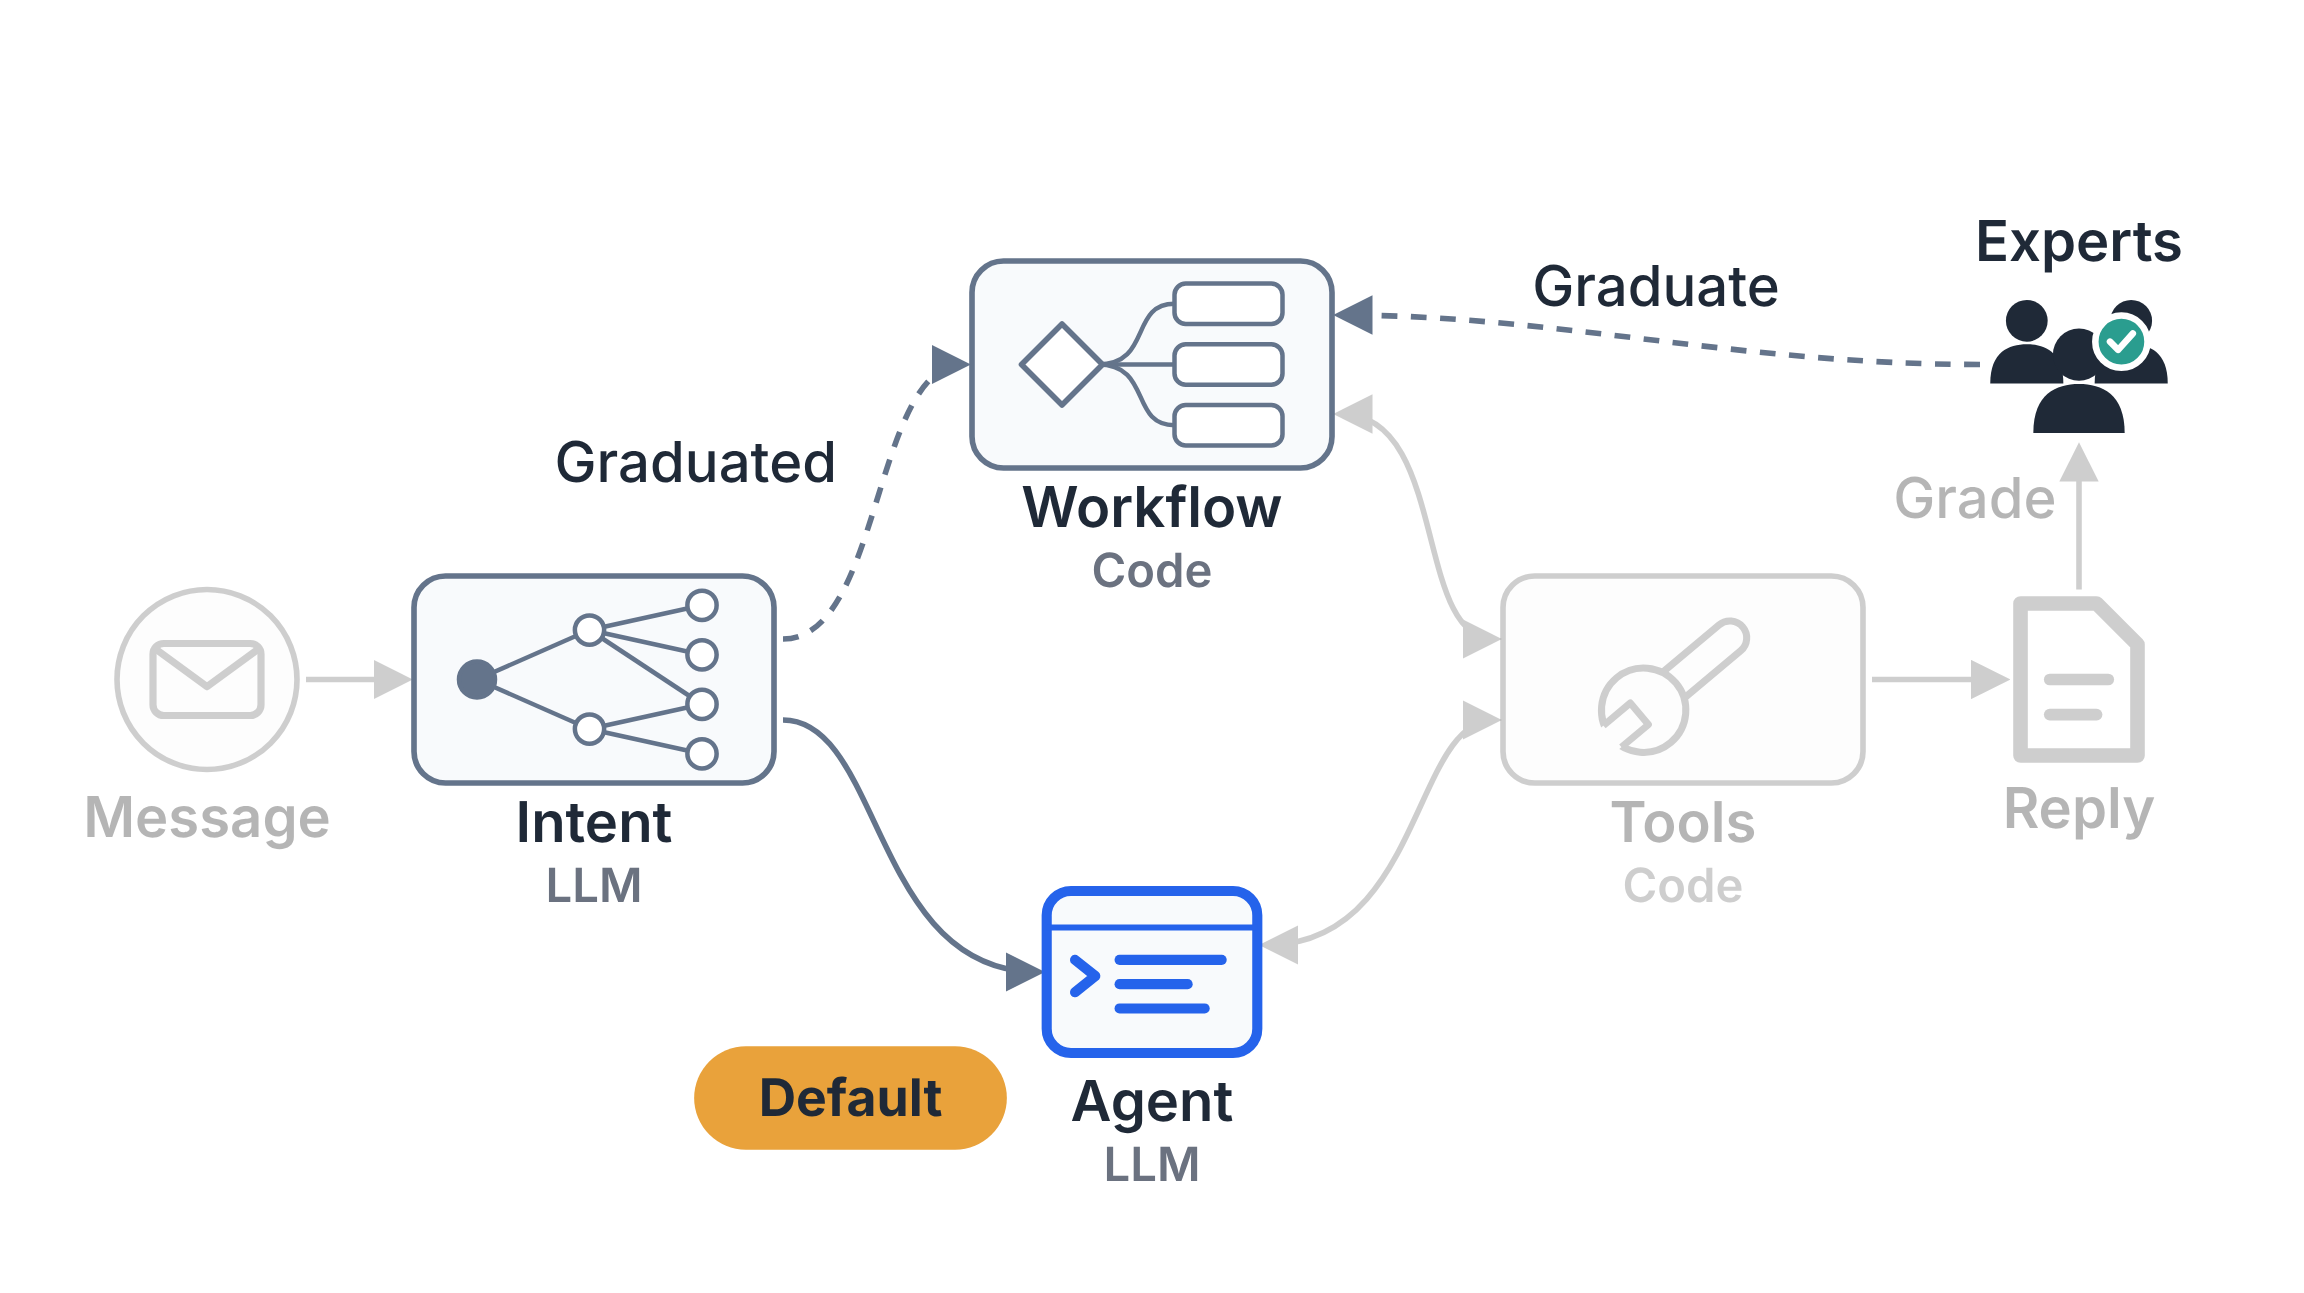
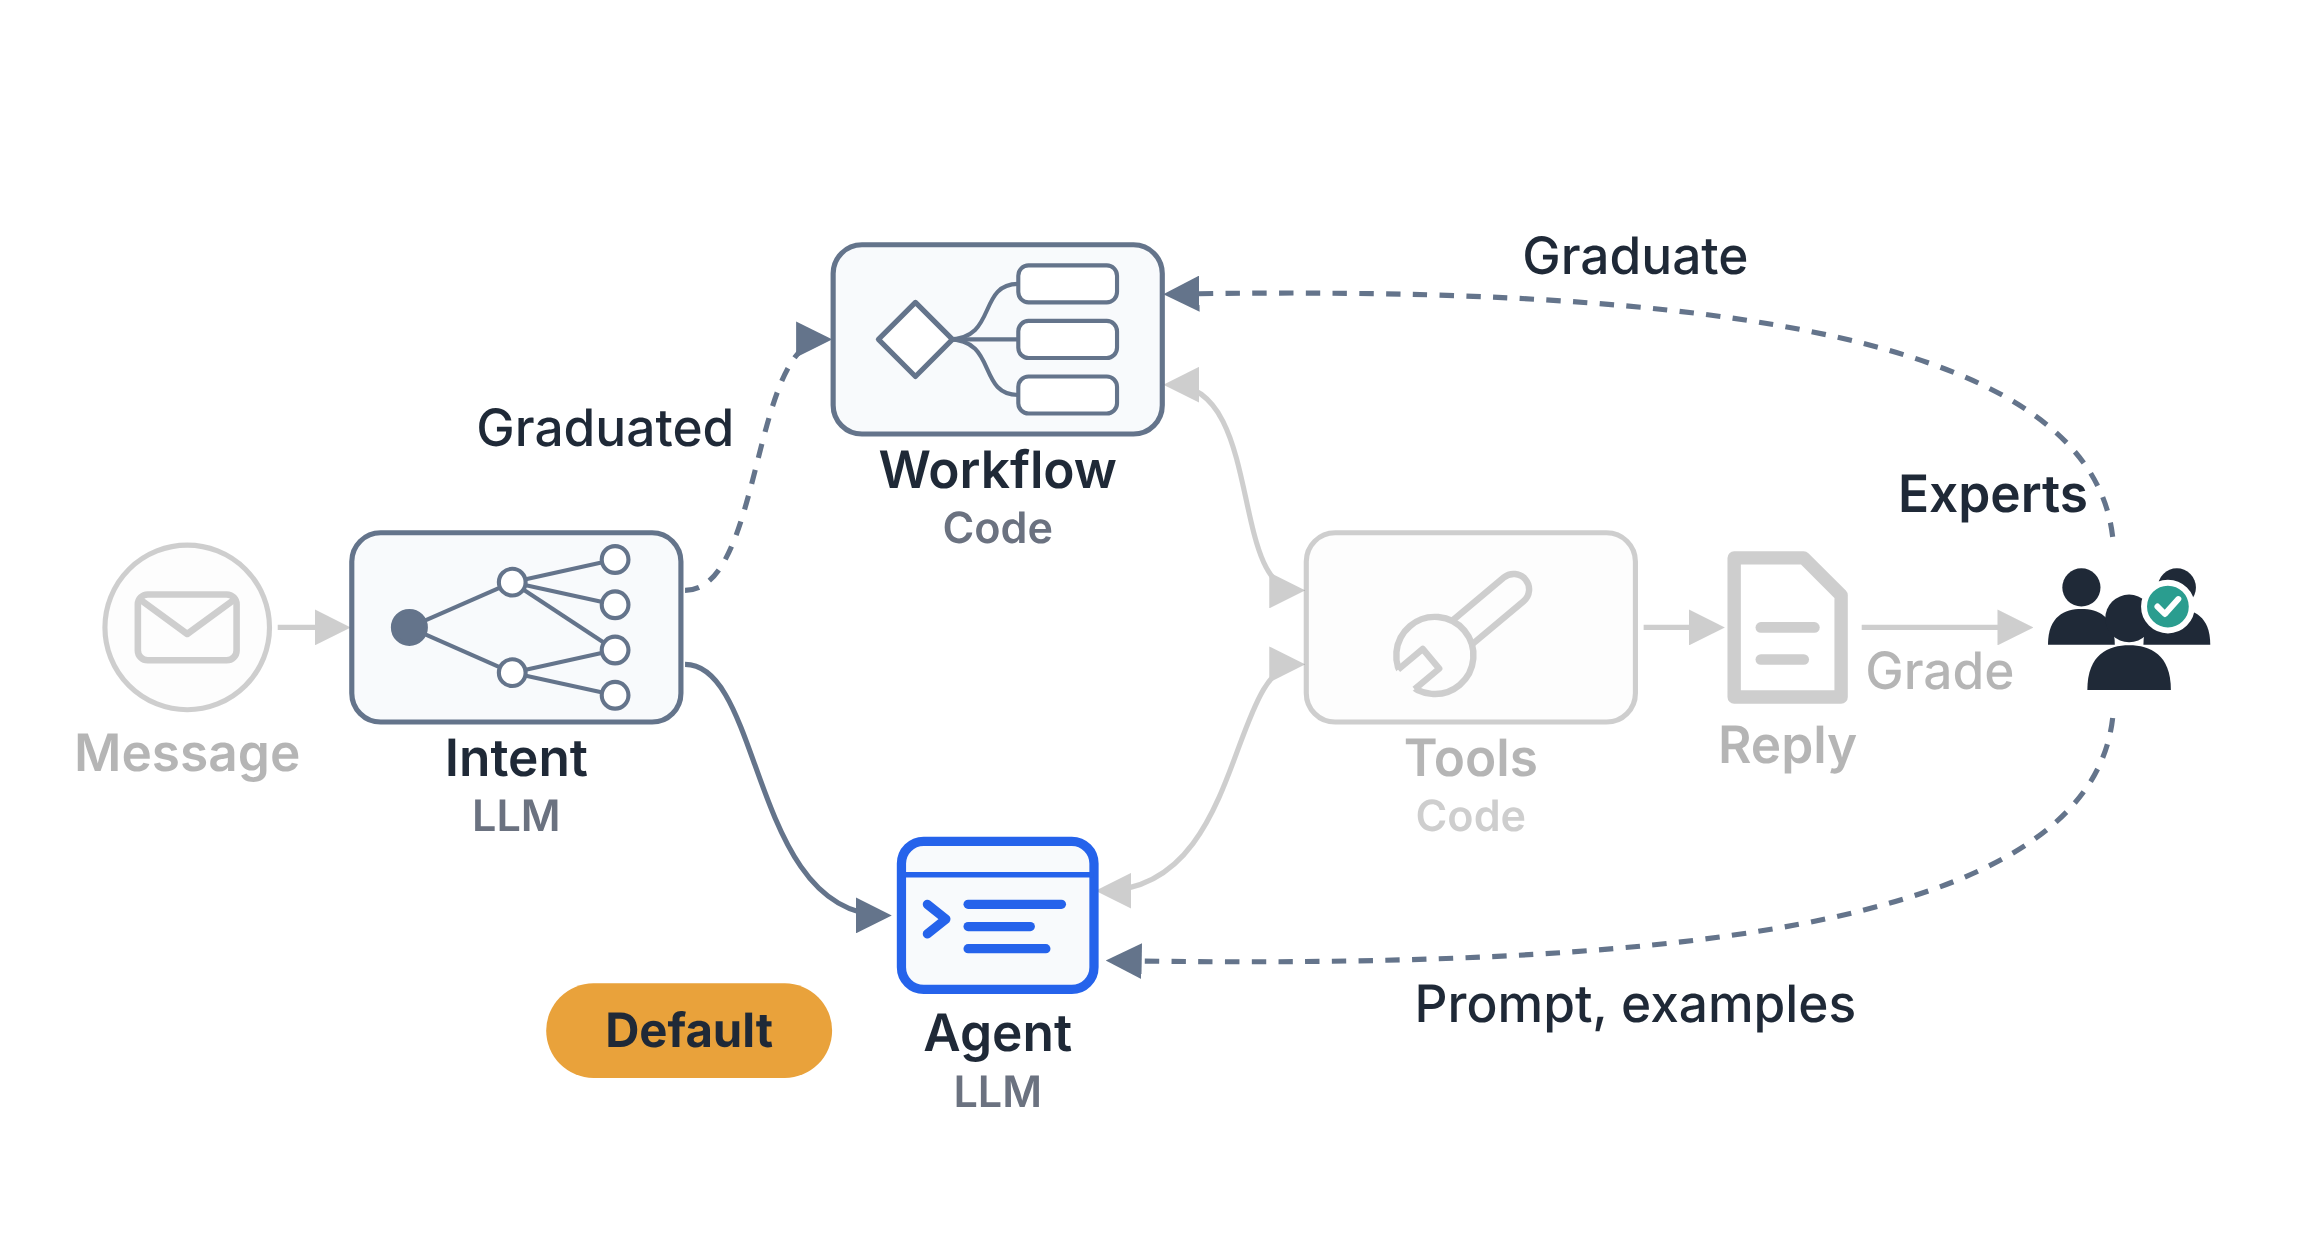
Workflow or Agent: expert feedback reaches the agent too, drop closing section
The decision map is now symmetric about its middle line: the experts'
grades go back to the workflow as new branches and to the agent as its
prompt and examples. The post says how feedback reaches the agent, drops
"What actually settles it", and tightens sentences that said little.

Claude-Session: https://claude.ai/code/session_015oG1v4P4b4YbQvHhkVUZki

diff --git a/src/components/DecisionMap.tsx b/src/components/DecisionMap.tsx
@@ -3,9 +3,10 @@
  * goes to intent recognition, an LLM call, which routes it either to a
  * workflow in code or to an agent. Both act only through the same tools,
  * which are code. Every action goes out through the tools, the reply
- * included; experts grade
- * each reply, and their grades feed back into the workflow: a new branch while
- * code is the default, a request type graduating into code once the agent is.
+ * included; experts grade each reply, and their grades feed back into both
+ * deciders: into the workflow as a new branch while code is the default, or a
+ * request type graduating into code once the agent is; into the agent as its
+ * prompt and the past tickets it may look at.
  *
  * Each section of the post shows the same map with its part highlighted and
  * the rest greyed out, like PipelineMap.tsx does for
@@ -16,7 +17,7 @@ import { color, Agent, Envelope, Experts, Reply, type Point } from '../remotion/
 import { Dim, Tag, ArrowMarker } from './map-parts';
 
 type NodeId = 'message' | 'intent' | 'workflow' | 'agent' | 'tools' | 'reply' | 'experts';
-type EdgeId = 'toIntent' | 'direct' | 'known' | 'other' | 'workflowTools' | 'agentTools' | 'send' | 'grade' | 'feedback';
+type EdgeId = 'toIntent' | 'direct' | 'known' | 'other' | 'workflowTools' | 'agentTools' | 'send' | 'grade' | 'feedback' | 'guide';
 type Part = NodeId | EdgeId;
 type Route = 'code' | 'agent';
 
@@ -38,7 +39,7 @@ export const PRESETS = {
   overview: {
     focus: [],
     description:
-      'The system as one map: a message goes to intent recognition, an LLM call, which routes it to a workflow in code or to an agent. Both act through the same tools, which send the reply; experts grade it and their grades feed back into the workflow.',
+      'The system as one map: a message goes to intent recognition, an LLM call, which routes it to a workflow in code or to an agent. Both act through the same tools, which send the reply; experts grade it and their grades feed back into both the workflow and the agent.',
   },
 
   'agent-first': {
@@ -73,25 +74,14 @@ export const PRESETS = {
     description:
       'Highlighted: intent recognition sends known requests to the workflow, the default, and the rest by the dashed Other route to the agent.',
   },
-
-
-
   'next-time': {
-    focus: ['intent', 'known', 'other', 'workflow', 'agent', 'feedback', 'experts'],
+    focus: ['intent', 'known', 'other', 'workflow', 'agent', 'feedback', 'guide', 'experts'],
     default: 'agent',
     tags: [{ on: 'agent', text: 'Default' }],
     small: true,
     description:
-      'Highlighted: the routing next time. The agent is the default route; a request type takes the dashed route to the workflow only once it is common and the agent gets it wrong, or its action can’t be undone.',
+      'Highlighted: the routing next time. The agent is the default route; a request type takes the dashed route to the workflow only once it is common and the agent gets it wrong, or its action can’t be undone. The experts’ feedback goes into the agent’s prompt and examples, and graduates request types into the workflow.',
   },
-  start: {
-    focus: ['send', 'reply', 'grade', 'experts'],
-    default: 'agent',
-    tags: [{ on: 'experts', text: 'Fill the grid' }],
-    small: true,
-    description: 'Highlighted: the experts, grading every reply as early as possible.',
-  },
-
 } satisfies Record<string, Preset>;
 
 export type PresetName = keyof typeof PRESETS;
@@ -101,8 +91,8 @@ const NOT_DIRECT: Part[] = ['intent', 'workflow', 'toIntent', 'known', 'other', 
 
 /** What the routes and the feedback say, by which route is the default; the grade edge always says "Grade". */
 const ROUTE_LABELS: Record<Route, Partial<Record<EdgeId, string>>> = {
-  code: { known: 'Known', other: 'Other', feedback: 'New branch' },
-  agent: { known: 'Graduated', feedback: 'Graduate' },
+  code: { known: 'Known', other: 'Other', feedback: 'New branch', guide: 'Prompt, examples' },
+  agent: { known: 'Graduated', feedback: 'Graduate', guide: 'Prompt, examples' },
 };
 
 interface Label extends Point {
@@ -131,52 +121,52 @@ const FADED = 0.34;
 const BOX = { w: 160, h: 92 };
 
 const WIDE: Layout = {
-  width: 960,
-  height: 510,
+  width: 1050,
+  height: 530,
   labelSize: 21,
   edgeSize: 19,
   tagSize: 19,
+  // Symmetric about the middle line: the workflow above it, the agent below,
+  // and the experts' feedback reaching each by mirrored arcs.
   N: {
-    message: { x: 60, y: 270 },
-    intent: { x: 232, y: 270 },
-    workflow: { x: 480, y: 130 },
-    agent: { x: 480, y: 400 },
-    tools: { x: 716, y: 270 },
-    reply: { x: 892, y: 270 },
-    experts: { x: 892, y: 130 },
+    message: { x: 56, y: 270 },
+    intent: { x: 216, y: 270 },
+    workflow: { x: 450, y: 130 },
+    agent: { x: 450, y: 410 },
+    tools: { x: 680, y: 270 },
+    reply: { x: 834, y: 270 },
+    experts: { x: 1000, y: 270 },
   },
   edges: {
-    toIntent: { d: 'M104,270 H148' },
+    toIntent: { d: 'M100,270 H132' },
     // Under where the intent step would be: the first design had none.
-    direct: { d: 'M98,288 C200,352 320,400 429,400' },
-    known: { d: 'M316,252 C360,252 356,130 396,130', label: { x: 340, y: 182, anchor: 'end' } },
-    // Right of the curve, clear of the intent's "LLM".
-    other: { d: 'M316,288 C360,288 356,400 429,400', label: { x: 372, y: 332, anchor: 'start' } },
+    direct: { d: 'M94,288 C180,352 300,410 395,410' },
+    known: { d: 'M298,252 C336,252 330,130 366,130', label: { x: 322, y: 182, anchor: 'end' } },
+    other: { d: 'M298,288 C336,288 330,410 395,410', label: { x: 322, y: 394, anchor: 'end' } },
     // Calls go in, results come back: both deciders act through the same tools.
-    workflowTools: { d: 'M564,152 C612,152 596,252 632,252', twoWay: true },
-    agentTools: { d: 'M531,388 C600,388 596,288 632,288', twoWay: true },
-    send: { d: 'M800,270 H858' },
-    grade: { d: 'M892,230 V168', label: { x: 882, y: 198, anchor: 'end' } },
-    // Along the top, above the tools, crossing nothing.
-    feedback: { d: 'M848,130 C740,130 660,108 564,108', label: { x: 704, y: 104 } },
+    workflowTools: { d: 'M534,152 C580,152 562,252 596,252', twoWay: true },
+    agentTools: { d: 'M501,398 C570,398 562,288 596,288', twoWay: true },
+    send: { d: 'M764,270 H800' },
+    grade: { d: 'M870,270 H950', label: { x: 908, y: 300 } },
+    // Mirror images: up over the tools into the workflow, down under them into the agent.
+    feedback: { d: 'M992,226 C980,120 760,104 534,108', label: { x: 760, y: 98 } },
+    guide: { d: 'M992,314 C980,420 760,436 506,432', label: { x: 760, y: 462 } },
   },
   labels: {
-    message: { x: 60, y: 340 },
-    intent: { x: 232, y: 342 },
-    workflow: { x: 480, y: 202 },
-    agent: { x: 480, y: 466 },
-    tools: { x: 716, y: 342 },
-    reply: { x: 892, y: 336 },
-    // Above: the grade comes in underneath.
-    experts: { x: 892, y: 84 },
+    message: { x: 56, y: 340 },
+    intent: { x: 216, y: 342 },
+    workflow: { x: 450, y: 202 },
+    agent: { x: 450, y: 476 },
+    tools: { x: 680, y: 342 },
+    reply: { x: 834, y: 336 },
+    // Above and to the left: the grade comes in from the left, the feedback leaves at the top and bottom.
+    experts: { x: 980, y: 214, anchor: 'end' },
   },
   tags: {
-    intent: { x: 232, y: 192 },
-    workflow: { x: 480, y: 46 },
+    intent: { x: 216, y: 192 },
+    workflow: { x: 450, y: 46 },
     // Left of the agent, below the route coming in.
-    agent: { x: 346, y: 456 },
-    // Left of centre, to stay inside the map.
-    experts: { x: 838, y: 32 },
+    agent: { x: 300, y: 466 },
   },
 };
 
@@ -185,15 +175,16 @@ const WIDE_SMALL: Layout = { ...WIDE, labelSize: 25, edgeSize: 25, tagSize: 23 }
 
 /**
  * The same map for phones, top to bottom: the message and intent, the
- * workflow and the agent side by side, the tools under both, and the reply
- * with the experts next to it; the feedback goes up the left margin.
+ * workflow and the agent side by side, the tools under both, then the reply
+ * and the experts; the feedback goes up both margins.
  */
 const TALL: Layout = {
   width: 620,
-  height: 850,
+  height: 960,
   labelSize: 25,
   edgeSize: 23,
   tagSize: 23,
+  // Symmetric about the middle line, as the wide map is about its own.
   N: {
     message: { x: 310, y: 48 },
     intent: { x: 310, y: 176 },
@@ -201,7 +192,7 @@ const TALL: Layout = {
     agent: { x: 470, y: 350 },
     tools: { x: 310, y: 610 },
     reply: { x: 310, y: 750 },
-    experts: { x: 150, y: 750 },
+    experts: { x: 310, y: 880 },
   },
   edges: {
     toIntent: { d: 'M310,90 V125' },
@@ -211,8 +202,10 @@ const TALL: Layout = {
     workflowTools: { d: 'M234,362 C292,362 290,460 290,558', twoWay: true },
     agentTools: { d: 'M419,362 C330,362 330,460 330,558', twoWay: true },
     send: { d: 'M310,660 V708' },
-    grade: { d: 'M280,750 H195', label: { x: 238, y: 736 } },
-    feedback: { d: 'M108,754 C30,730 26,420 66,362', label: { x: 56, y: 560, anchor: 'start' } },
+    grade: { d: 'M310,794 V838', label: { x: 324, y: 824, anchor: 'start' } },
+    // Mirror images up the two margins.
+    feedback: { d: 'M262,884 C40,884 26,430 66,362', label: { x: 56, y: 700, anchor: 'start' } },
+    guide: { d: 'M358,884 C580,884 600,400 526,362', label: { x: 564, y: 700, anchor: 'end' } },
   },
   labels: {
     message: { x: 362, y: 56, anchor: 'start' },
@@ -221,14 +214,13 @@ const TALL: Layout = {
     agent: { x: 470, y: 428 },
     tools: { x: 216, y: 604, anchor: 'end' },
     reply: { x: 350, y: 758, anchor: 'start' },
-    experts: { x: 150, y: 704 },
+    experts: { x: 310, y: 946 },
   },
   tags: {
     // Under its labels, between the two routes.
     intent: { x: 310, y: 322 },
     workflow: { x: 150, y: 496 },
     agent: { x: 470, y: 496 },
-    experts: { x: 150, y: 816 },
   },
 };
 
@@ -350,7 +342,7 @@ function MapSvg({ layout, preset, id, className }: { layout: Layout; preset: Pre
   const on = (part: Part) => all || p.focus.includes(part);
   const shown = (part: Part) => (part === 'direct' ? !!p.direct : !(p.direct && NOT_DIRECT.includes(part)));
   // The exception route is dashed, and so is the feedback, which changes the system rather than answering a request.
-  const dashed = (e: EdgeId) => e === 'feedback' || (e === 'known' && p.default === 'agent') || (e === 'other' && p.default === 'code');
+  const dashed = (e: EdgeId) => e === 'feedback' || e === 'guide' || (e === 'known' && p.default === 'agent') || (e === 'other' && p.default === 'code');
   const text = (e: EdgeId) => (e === 'grade' ? 'Grade' : p.default && ROUTE_LABELS[p.default][e]);
   const marker = `${id}-arrow`;
 
